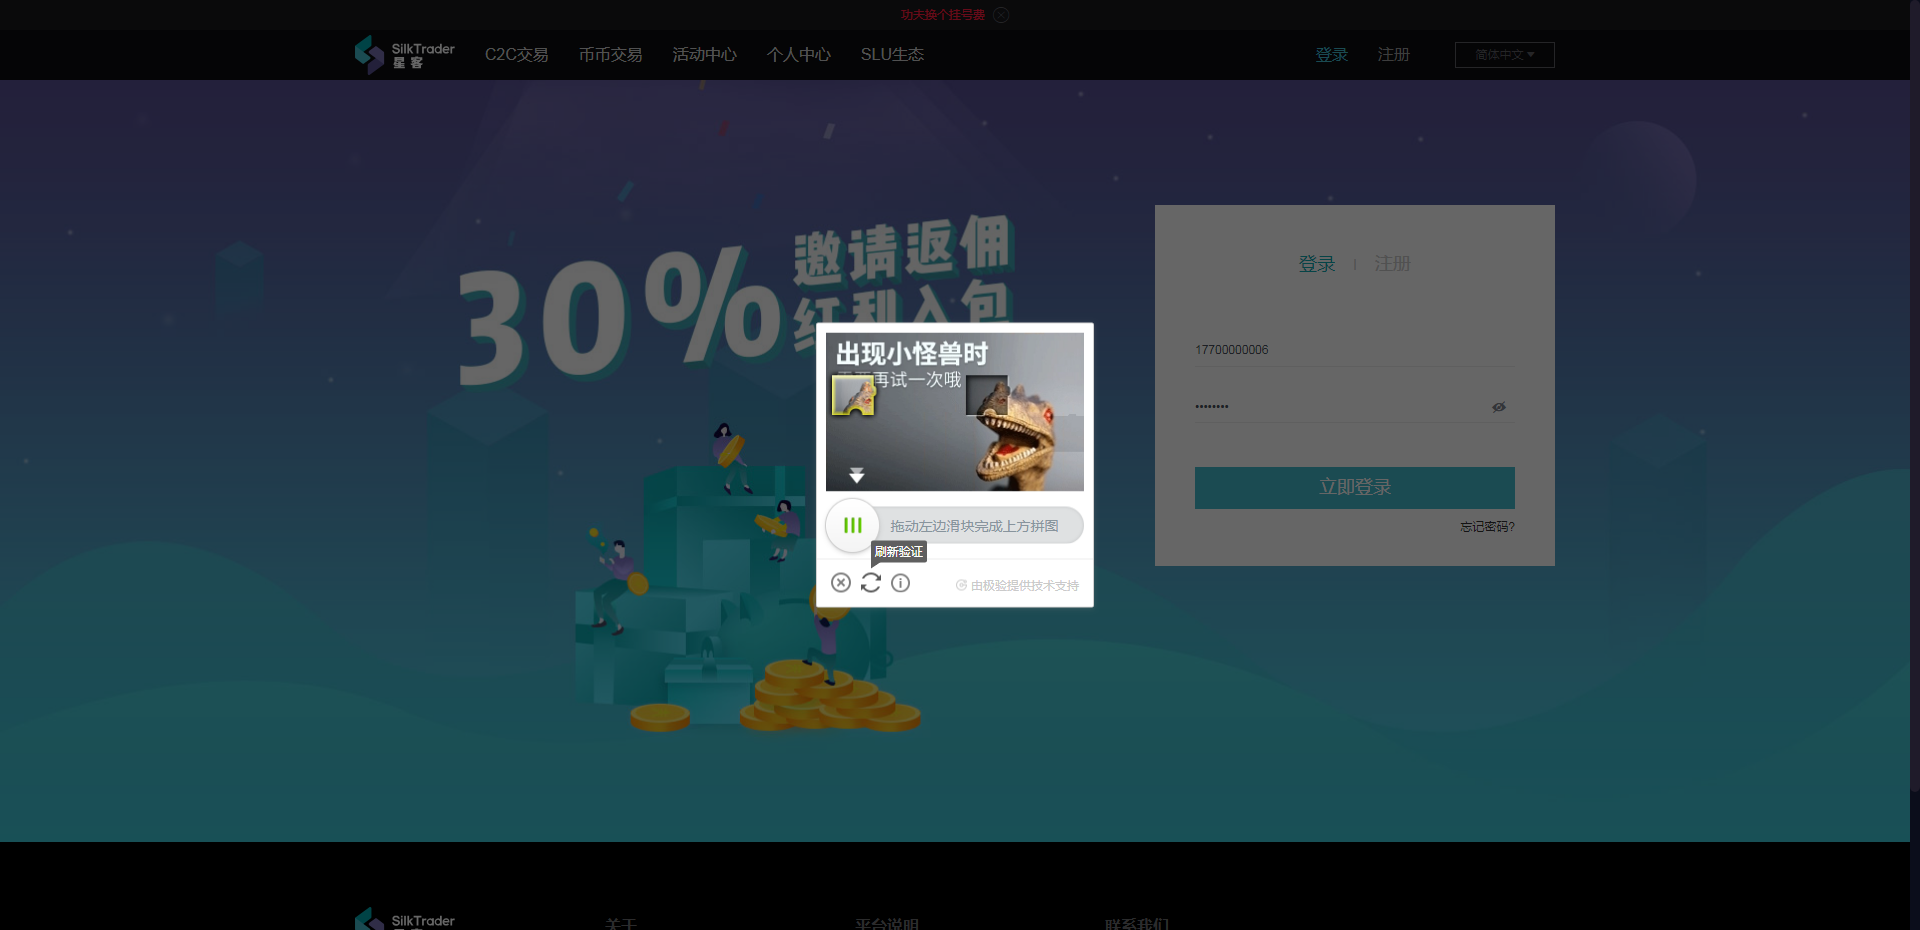
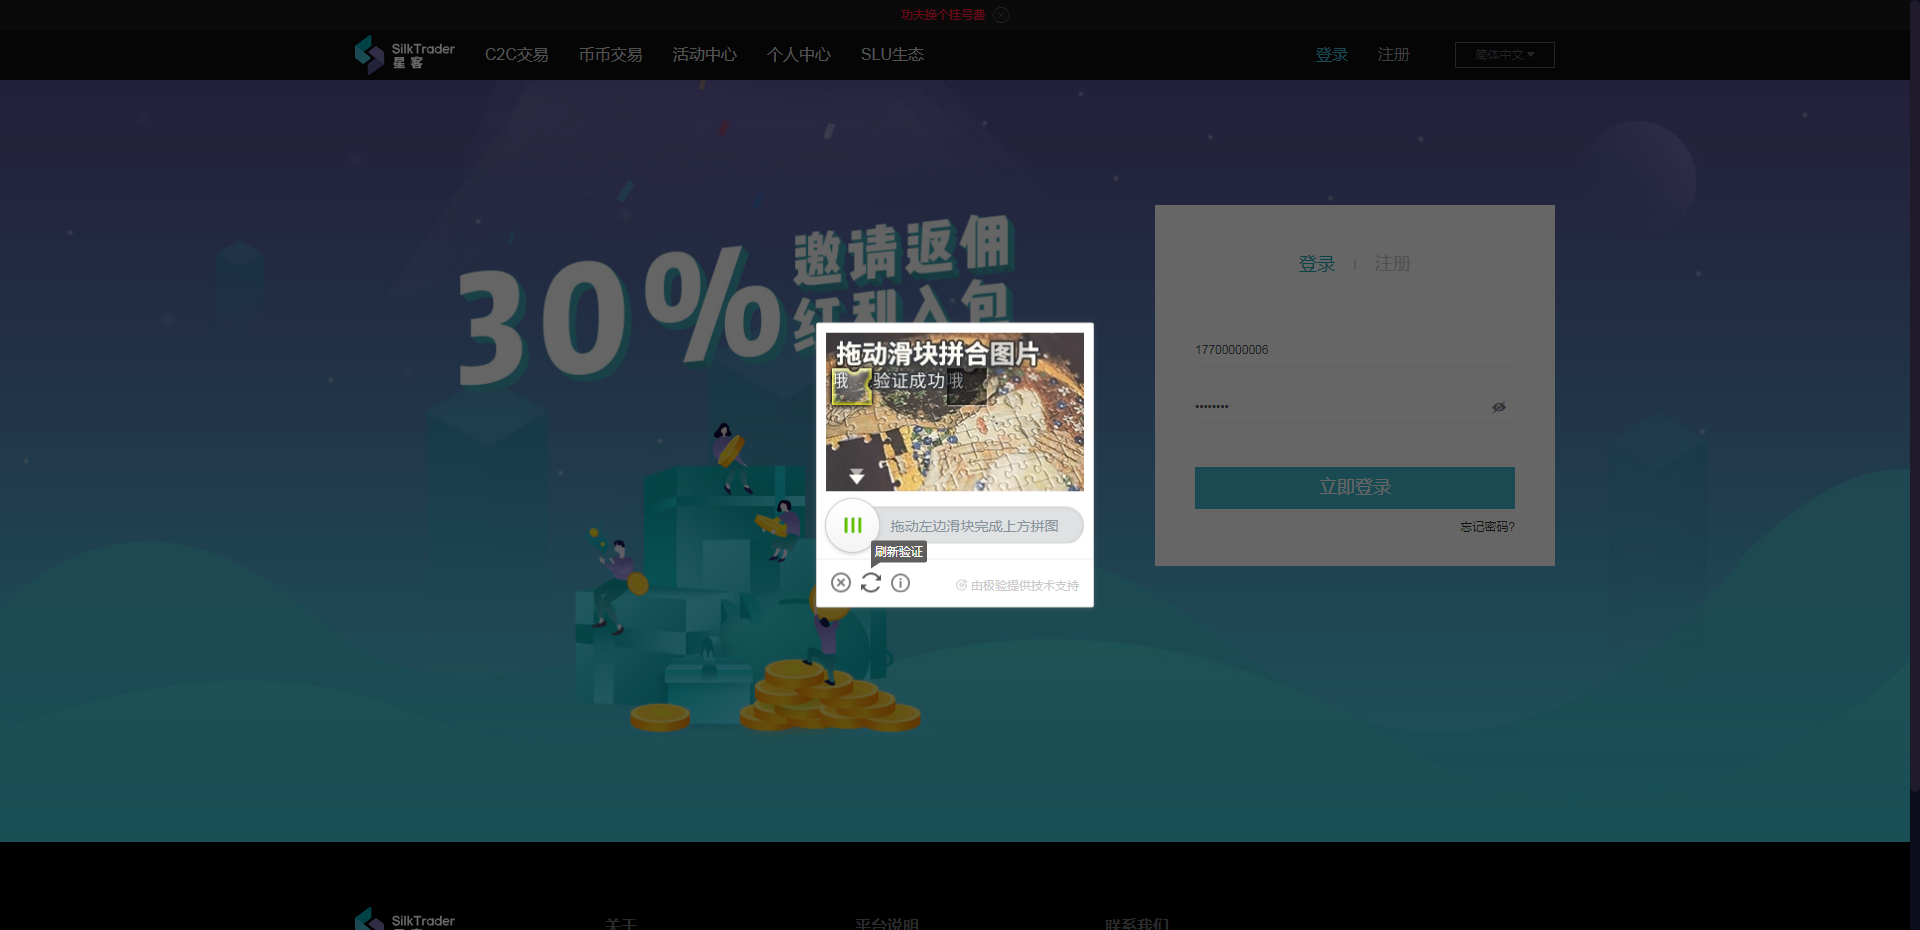
添加滑块js处理样例

Changed region(s): [[0.4062, 0.343, 0.5625, 0.5301]]

diff --git a/TestCase/damo.py b/TestCase/damo.py
@@ -6,7 +6,7 @@ from selenium.webdriver.common.action_chains import ActionChains
 import time
 
 
-class image_test1(object):
+class image_damo1(object):
     # 计算滑块位移距离
     def get_diff_location(self, image1,image2):
         #（880,1082）（344,490）为滑块图片区域，可能会受到一些清晰度的影响，可根据实际情况修改
@@ -91,32 +91,104 @@ class image_test1(object):
 #     time.sleep(3)
 #     driver.quit()
 
-class image_test3(object):
-    """selenium运行js修改页面参数"""
+class image_damo3(object):
+    """selenium运行js修改页面参数:
+    
+    ***
+    1.删除页面元素只读属性的方法（移除对象的某个属性）：
+    d=driver.find_element_by_xpath("//*[@id='divform']/div[2]/ul[2]/li[3]/span[2]/input[1]")
+    driver.execute_script('arguments[0].removeAttribute(\"readonly\")', d);
+    2.为页面对象设置属性的方法：
+    "document.getElementById('eid').setAttribute('value','3240383');"
+    3.修改页面对象属性的值
+    js = "var q=document.getElementsByClassName(\"nav xs-hide ivu-menu ivu-menu-light ivu-menu-vertical\")[0]; q.style.width=\"200px\""
+    or:
+    da = driver.find_element_by_xpath("//canvas[@class='geetest_canvas_fullbg geetest_fade geetest_absolute']")
+    driver.execute_script('arguments[0].removeAttribute(\"style\")', da)
+    
+    ***
+    JS中通过XPATH定位元素的方法：
+    function _x(STR_XPATH) {
+    var xresult = document.evaluate(STR_XPATH, document, null, XPathResult.ANY_TYPE, null);
+    var xnodes = [];
+    var xres;
+    while (xres = xresult.iterateNext()) {
+        xnodes.push(xres);
+    }
+    return xnodes;
+    }
+    """
 
     driver = webdriver.Chrome()
-    driver.get("https://www.baidu.com/")
-    # 给搜索输入框标红javascript脚本
-    js = "var q=document.getElementById(\"kw\");q.style.border=\"2px solid red\";"
-    # 调用给搜索输入框标红js脚本
-    driver.execute_script(js)
-    time.sleep(3)
-    # 单独执行js脚本
-    driver.execute_script('alert("输入框标红了!")')
-    time.sleep(3)
-    # 接受提示信息
-    driver.switch_to_alert().accept()
-    time.sleep(3)
-    # js隐藏元素,将获取的图片元素隐藏
-    img1 = driver.find_element_by_xpath("//*[@id='lg']/img")
-    driver.execute_script('$(arguments[0]).fadeOut()', img1)
-    time.sleep(3)
-    driver.find_element_by_xpath("//*[@id='kw']").send_keys("selenium")
-    driver.find_element_by_xpath("//*[@id='su']").click()
-    time.sleep(3)
+    # driver.get("https://www.baidu.com/")
+    # # 给搜索输入框标红javascript脚本
+    # js = "var q=document.getElementById(\"kw\");q.style.border=\"3px solid red\";"
+    # # 调用给搜索输入框标红js脚本
+    # driver.execute_script(js)
+    # time.sleep(1)
+    # js = "var q=document.getElementById(\"lg\");q.innerHTML=\"原来显示图片的位置已经被篡改了！\";q.style.color = \"#ff0000\";"
+    # driver.execute_script(js)
+    # time.sleep(1)
+    # # 单独执行js脚本
+    # driver.execute_script('alert("输入框标红了!")')
+    # time.sleep(1)
+    # # 接受提示信息
+    # driver.switch_to_alert().accept()
+    # time.sleep(1)
+    # # js隐藏元素,将获取的图片元素隐藏
+    # img1 = driver.find_element_by_xpath("//*[@id='lg']")
+    # driver.execute_script('$(arguments[0]).fadeOut()', img1)
+    # time.sleep(1)
+    # driver.find_element_by_xpath("//*[@id='kw']").send_keys("selenium")
+    # driver.find_element_by_xpath("//*[@id='su']").click()
+    # time.sleep(1)
+
+
+
+    # driver.get("http://www.400.pro/#/")
+    # driver.execute_script("alert('执行自己的JS了。。。')")
+    # time.sleep(1)
+    # driver.switch_to_alert().accept()
+    # js1 = "var q=document.getElementById(\"fullpage\"); q.style.border=\"2px solid red\";"
+    # driver.execute_script(js1)
+    # time.sleep(1)
+    # text1 = driver.find_element_by_xpath("//div[@class='silkContainer']/h1")
+    # driver.execute_script("$(arguments[0]).fadeOut()", text1)
+    # time.sleep(2)
+
+    # driver.get("http://www.400.pro/#/exchange/slu_usdt")
+    # time.sleep(2)
+    # ss = driver.find_element_by_xpath("/html/body/div[1]/div[2]")
+    # driver.execute_script("$(style.left=500px)", ss)
+
+    driver.get("http://www.400.pro/#/login")
+    driver.maximize_window()
+    time.sleep(15)
+    # imgbox = driver.find_element_by_xpath("//div[@class='geetest_canvas_img geetest_absolute']/canvas")
+    # imgbox = driver.find_element_by_xpath("//div[@class='ivu-form-item-content']//input[@type='password']")
+    # imgbox = driver.find_element_by_xpath("//div[@class='ivu-form-item-content']//button")
+    # js = "var q=document.getElementsByClassName(\"nav xs-hide ivu-menu ivu-menu-light ivu-menu-vertical\")[0]; q.style.width=\"200px\""
+    # time.sleep(1)
+    # driver.execute_script(js)
+    # time.sleep(1)
+    #
+    # imgbox = driver.find_element_by_xpath("//div[@class='silkContainer']/ul")
+    # time.sleep(1)
+    # imgbox.click()
+    # driver.execute_script('$(arguments[0]).click()', imgbox)
+    # driver.execute_script('arguments[0].removeAttribute(\"style\")', imgbox)
+    # js = "var q=document.getElementsByClassName(\"geetest_canvas_fullbg geetest_fade geetest_absolute\")[0]; q.style.display=\"true\""
+    da = driver.find_element_by_xpath("//canvas[@class='geetest_canvas_fullbg geetest_fade geetest_absolute']")
+    driver.execute_script('arguments[0].removeAttribute(\"style\")', da)
+    time.sleep(2)
+    driver.execute_script('arguments[0].setAttribute(\"style\",\"display: none;\")', da)
+
+
+    time.sleep(4)
+
     driver.quit()
 
 
 
 if __name__ == "__main__":
-    image_test3()
+    image_damo3()

diff --git a/BaseSe/Base.py b/BaseSe/Base.py
@@ -8,9 +8,18 @@ import requests
 
 class Base_image_move_distance(object):
     """
+    v1.0
+    date : 2018/08/10
     登录页面获取极验滑块验证码滑动距离类
     处理方式：暂时将无缺口的原图保存在本地，通过有缺口的截图同原图对比方式获得滑动位移距离
     :param   login_image_path="E:\DKpc_test\Data\Image\quekou.png"
+    :return  lens
+    
+    v1.1
+    date : 2018/09/29
+    优化登录滑块处理方式：
+    页面弹出滑块验证后，修改页面JS隐藏缺口及滑块，截图保存作为对照；修改页面JS还原缺口及滑块，截图保存后计算对比缺口位移
+    :param   截图：login_image_path="E:\DKpc_test\Data\Image\quekou.png";  对照：login_image_path_control_path
     :return  lens
     """
 
@@ -38,7 +47,7 @@ class Base_image_move_distance(object):
         """
         orimage = self.contrast_OriginalImage()
         lens = self.get_diff_location(self.login_image, orimage)
-        return lens - 827 -10  # -10为根据实际定位效果往回退10个像素
+        return lens - 827 - 5  # -10为根据实际定位效果往回退10个像素
 
     def contrast_OriginalImage(self):
         """

diff --git a/Pages/DKpc_UcassetsPage.py b/Pages/DKpc_UcassetsPage.py
@@ -50,7 +50,7 @@ class DKpc_UcassetsPage(Pyse):
 
     # JS
     # 移除时间控件输入禁止
-    js_remove_time_control = "$('//input[@class='ivu-input ivu-input-large']').removeAttr('readonly')"
+    js_remove_time_control = "$(\"//input[@class='ivu-input ivu-input-large']\").removeAttr('readonly')"
 
     def browse_DKpc_UcassetsPage_elements(self):
         """
@@ -60,8 +60,12 @@ class DKpc_UcassetsPage(Pyse):
         self.page_waiting()
         self.find_element(*self.xpath_billing_Details).click()
         self.page_waiting()
-        # self.driver.execute_script(self.js_remove_time_control)
-        # self.page_waiting()
+
+        # exchange = self.driver.find_element_by_xpath("//input[@class='ivu-input ivu-input-large']")
+        # self.driver.execute_script("removeAttr('readonly')", exchange)
+        # exchange.click()
+
+        self.page_waiting()
         self.find_element(*self.xpath_my_assets).click()
         self.page_waiting()
         self.find_element(*self.xpath_coin_in).click()

diff --git a/Pages/DKpc_LoginPage.py b/Pages/DKpc_LoginPage.py
@@ -31,7 +31,7 @@ class DKpc_LoginPage(Pyse):
     # 图片刷新按钮
     xpath_refresh_button = "//div[@class='geetest_panel_next']//div[@class='geetest_panel']//a[@class='geetest_refresh_1']"
     # 超过图片次数刷新
-    xpath_error_refresh_button = "//body//div[@class='geetest_panel geetest_wind'][3]//div[contains(text(), '请点击此处重试')]"
+    xpath_error_refresh_button = "//body//div[@class='geetest_panel geetest_wind'][1]//div[contains(text(), '请点击此处重试')]"
 
     """用户参数"""
     # 用户名密码
